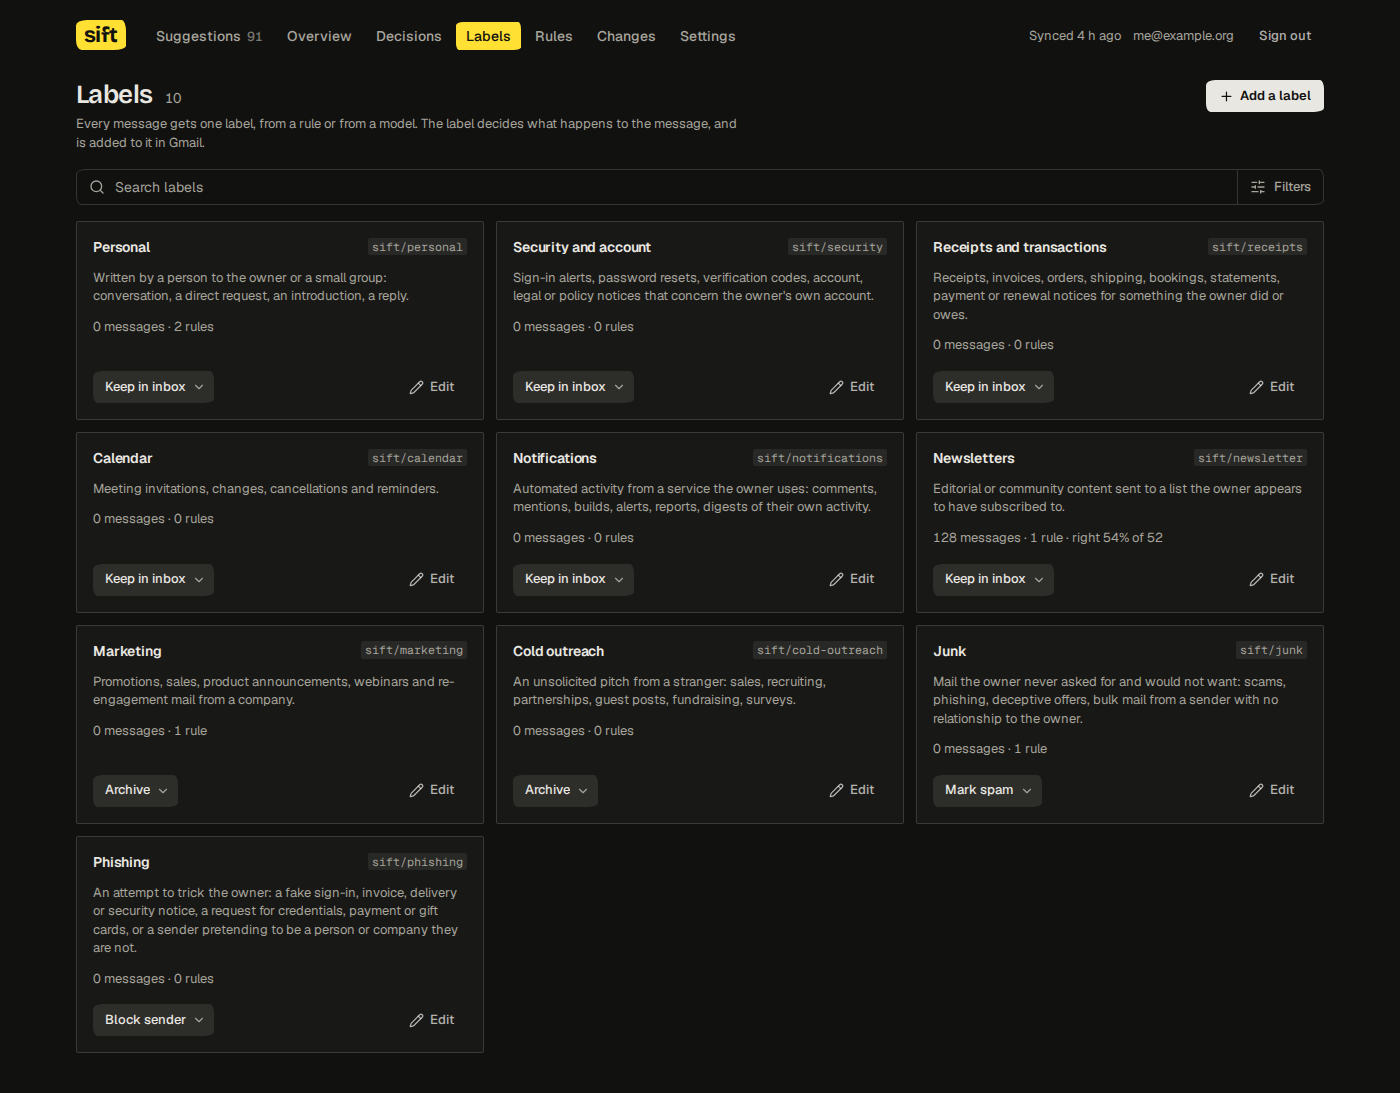
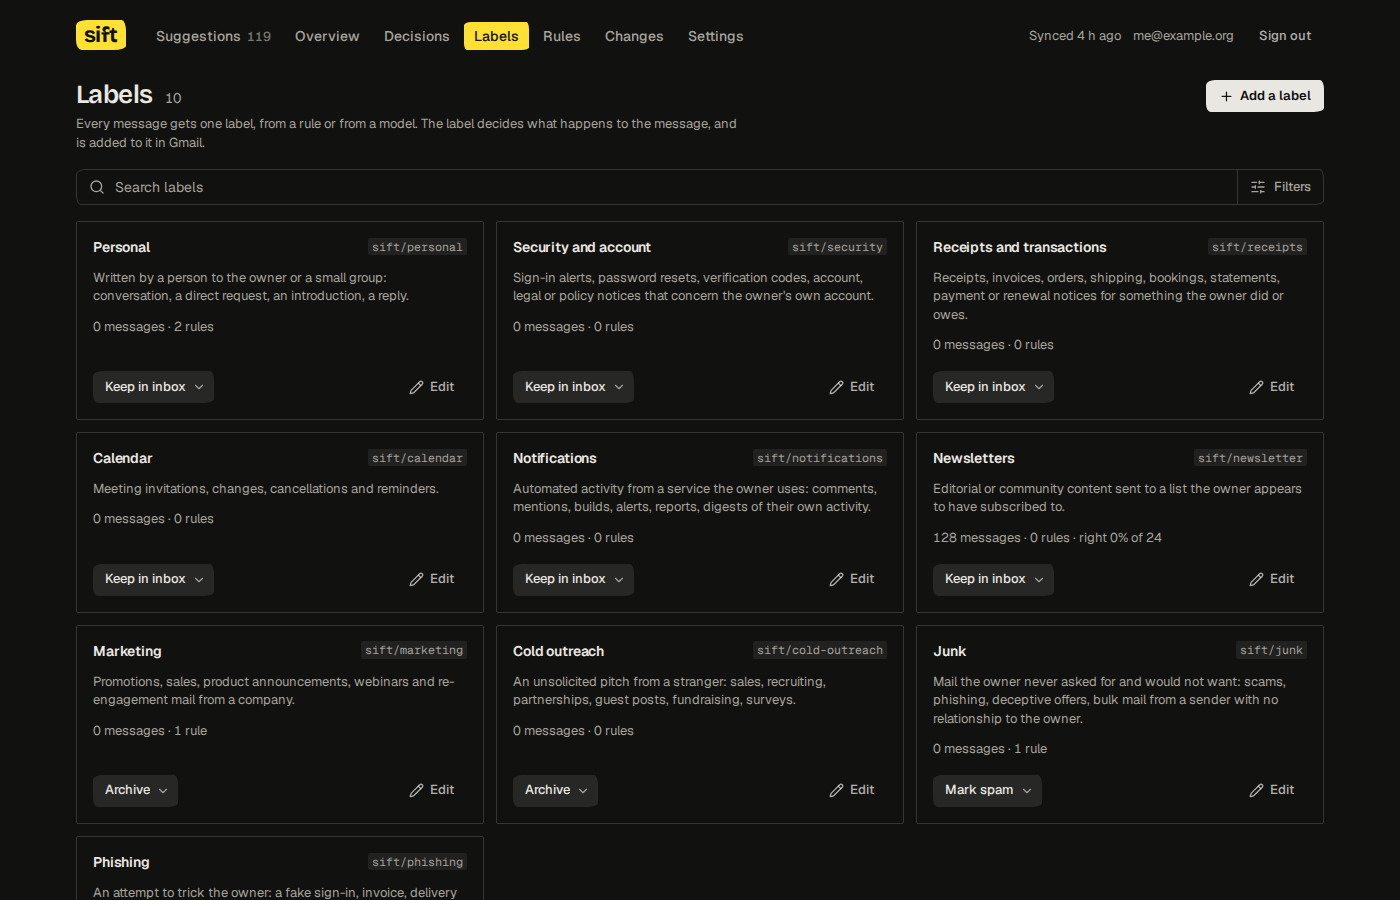
Design system: sheets and cards have no fill
Nothing on the page has a background of its own now: lists sit straight
on it, and a sheet or card is set apart by a thin frame alone. Only what
floats above the page (panel, dialog, menu) is filled.

diff --git a/web/src/system/sheet.tsx b/web/src/system/sheet.tsx
@@ -1,9 +1,9 @@
 import type { ComponentProps, ReactNode } from 'react';
 import { cn } from '@/lib/utils';
 
-/** The surface everything sits on: a framed sheet with the edge of the one beneath showing. */
+/** A group of things that belong together, set apart by a frame alone: it has no fill of its own, so the page shows through. */
 export function Sheet({ className, ...props }: ComponentProps<'div'>) {
-  return <div className={cn('sheet flex flex-col bg-card text-sm text-card-foreground', className)} {...props} />;
+  return <div className={cn('sheet flex flex-col text-sm', className)} {...props} />;
 }
 
 export function SheetHead({ title, description, action }: { title: string; description?: string; action?: ReactNode }) {

diff --git a/web/src/system/card.tsx b/web/src/system/card.tsx
@@ -11,7 +11,7 @@ export function Card({ className, ...props }: ComponentProps<'article'>) {
   return (
     <article
       className={cn(
-        'relative flex flex-col gap-3 rounded-[2px] border border-(--frame) bg-card p-4 text-sm',
+        'relative flex flex-col gap-3 rounded-[2px] border border-(--frame) p-4 text-sm',
         'has-[.card-open:hover]:border-foreground/35 has-[.card-open:focus-visible]:border-foreground/35',
         className,
       )}

diff --git a/docs/DESIGN.md b/docs/DESIGN.md
@@ -10,7 +10,7 @@ A proof sheet on a dark desk: ink on near-black, one highlighter pen, hard edges
 
 - **Dark only.**
 - **Two colours mean something.** Yellow (`highlight`) means "look here": the name, the current section, the headline figure, what is waiting on the reader, a search match. Red (`destructive`) means a failure. Nothing else is coloured; everything else is the ink colour at some strength.
-- **As little chrome as it takes.** A list sits straight on the page with no surface behind it. A sheet has a frame, and is for a group of settings or a figure, not for a table. Inside either, space and type separate things before any line does. Controls are filled (`--fill`), not outlined. Notes and headings have no box and no rule. The only lines inside a sheet are faint dashes between rows (`--rule`).
+- **As little chrome as it takes.** Nothing on the page has a fill of its own: a list sits straight on it, and a sheet or a card is set apart by a thin frame alone. Only what floats above the page (a panel, a dialog, a menu) is filled, so it can cover what is under it. A sheet is for a group of settings or a figure, not for a table. Inside either, space and type separate things before any line does. Controls are filled (`--fill`), not outlined. Notes and headings have no box and no rule. The only lines inside a sheet are faint dashes between rows (`--rule`).
 - **Lines are ink, thinned.** `--frame` for a sheet's edge, `--rule` between rows. Never a separate grey.
 - **One shadow.** `--edge`: hard, offset down and right, the edge of the sheet beneath. A `mark` button is raised by the same edge and pressing pushes it down.
 - **Things you press have hand-cut corners** (`--cut-control`); the highlighter stroke has its own (`--cut`). Surfaces are square.
